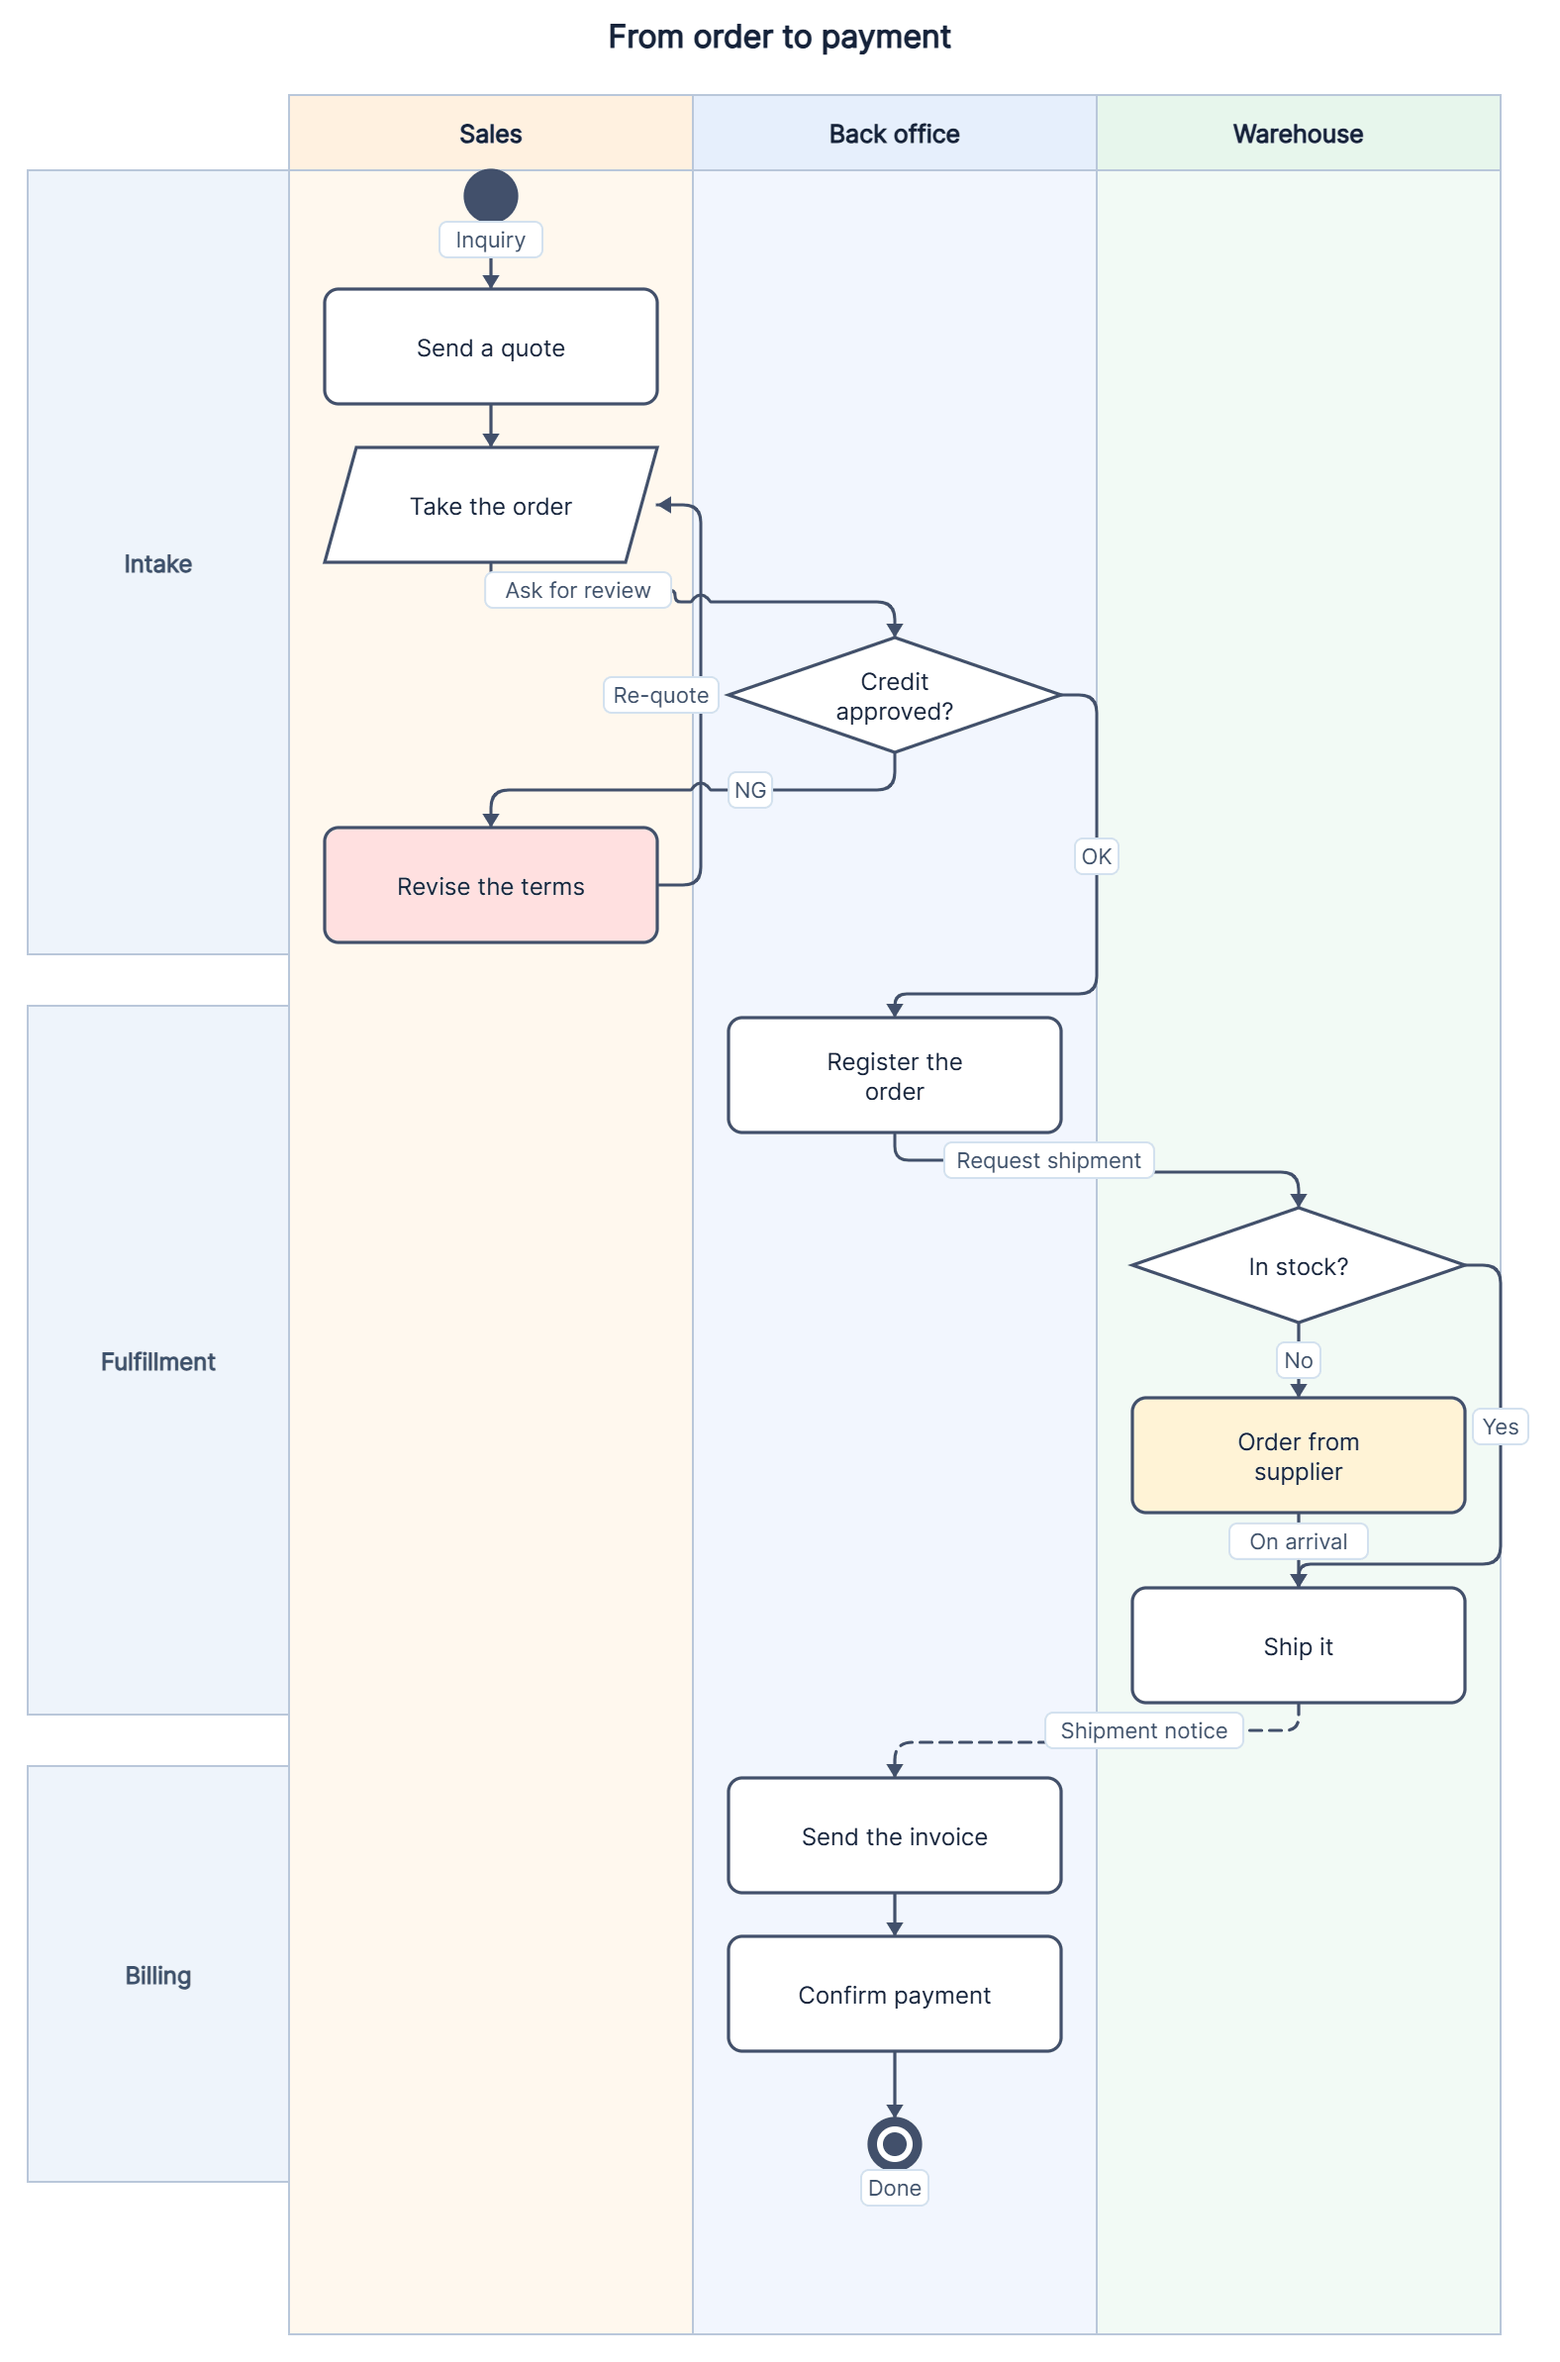
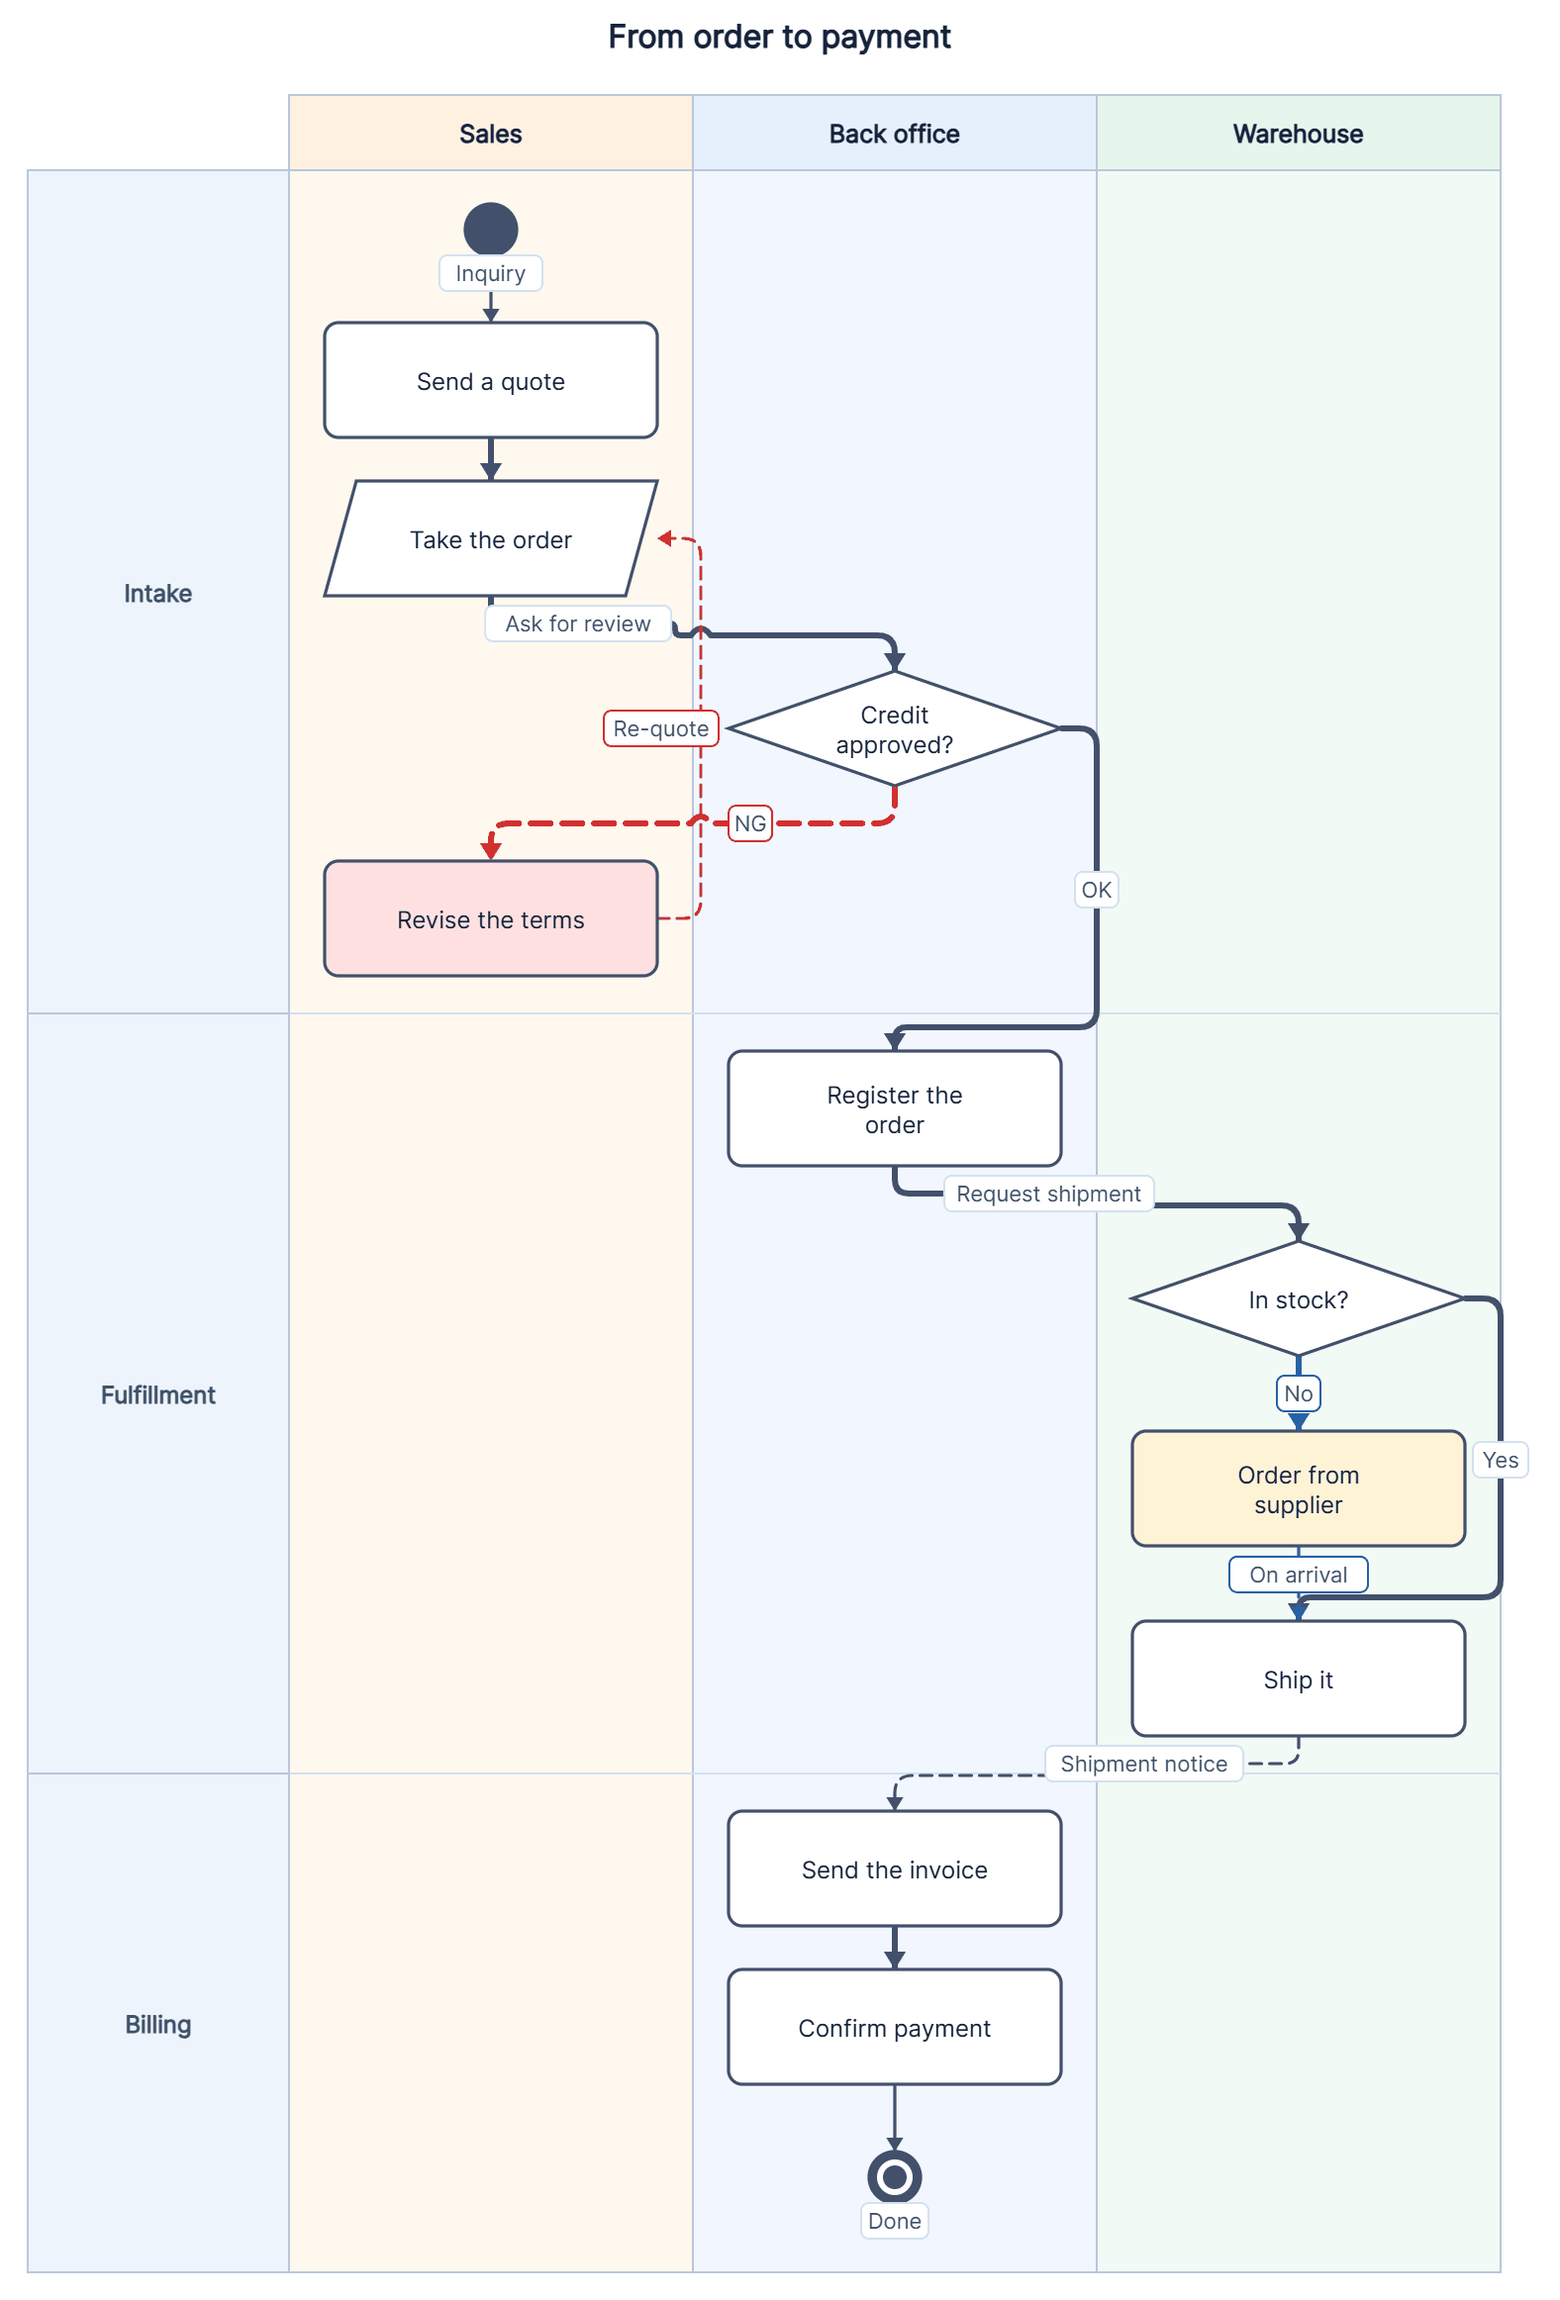
README の図と貼り付けコードを 1.4.0 の例に差し替える
配る例が線の4種と色を使うようになったので、README の PNG と、そこに貼ってある
.swim のコードを日英とも入れ替えた。図の中身が本文と食い違わないようにするため。

CHANGELOG の 1.0.6 相当（このリポジトリでは 1.0.3）の節を、同梱エンジン 1.4.0 の
内容に書き換えた。線の4種と色、空白なしの記法の直し、フェーズの帯の余白と境目を足し、
GUI 側の変更（線の色の欄、案内の CDN の版）も並べた。版そのものは上げていない。
1.0.3 はまだタグが無く、Marketplace に出していないため。

diff --git a/CHANGELOG.md b/CHANGELOG.md
@@ -2,8 +2,20 @@
 
 ## 1.0.3
 
-**描画エンジンを 1.3.0 に更新した。** 図の詰まり方が変わる。
+**描画エンジンを 1.4.0 に更新した。** 書ける線が増え、図の詰まり方が変わる。
 
+- **線の種類が4つになった。** `->` 実線 / `-->` 破線 / `=>` 太い実線 / `==>` 太い破線。
+  線が1本なら実線・2本なら破線・`=` なら太い、という規則で読める。Mermaid のフローチャート
+  では `-->` が実線・`==>` が太い実線だが、こちらはどちらも逆の意味になる。
+- **接続に色を付けられるようになった。** `n1 -> n2 "承認" color=#D32F2F` のように書く。
+  矢じりとラベルの枠も線の色に追従する（ラベルの文字色は読みやすさのため変えていない）。
+- **空白なしで書いた `n1-->n2` が読めていなかったのを直した。** from が `n1-` になり、
+  線種も破線ではなく実線になっていた。`A -> B -> C` と1行で3つ以上つなぐ書き方は、
+  黙って2つめまでで捨てるのをやめ、エラーとして出す。
+- **フェーズの帯に余白を入れ、レーンの上にも境目を引くようにした。** 帯の内側に余白が無く、
+  ノードが帯の上端にくっついていた。帯どうしは地続きに並べ、境目は薄い線1本でレーンの上まで
+  引く。最後のフェーズの下に終了●の分を二重に空けていたのもやめた（受注フローの例で、
+  図の高さが 1193px から 1162px になった）。
 - **段と段の隙間を「そこを何が通るか」で決めるようにした。** これまではフェーズの中で
   一律の間隔を使い、その値を「いちばん長いラベルの幅」から求めていたため、長いラベルが
   1つあるだけで、ラベルも折れ線も無い段まで間延びしていた。ラベル付きの接続がまたぐ
@@ -12,6 +24,14 @@
 - **接続ラベルがノードに重ならないようにした。** 逃がす処理が他の線と他のラベルしか
   見ておらず、図形の箱を見ていなかった。戻りの辺のようにノードのすぐ脇を通る線は、
   経路上のどこに置いても重なるので、必要なら経路から少しだけ横へ外す。
+
+**接続に線の色を選べるようにした。** ノードの塗り色と同じ作りで、線に使える濃い色を
+並べた一覧と「色なし」（エンジンの既定色で描く）を持つ。接続の一覧には記号ではなく、
+書き出される記法そのもの（`n1 ==> n4`）と、色を付けた線には細い色見本を出す。
+
+**「このツールについて」が案内する CDN の版が 1.3.0 のまま残っていたのを直した。**
+誰も見張っていなかったので黙ってずれていた。同梱しているエンジンの版とずれたら
+ビルドの検査で落ちるようにしてある。
 
 **ライブラリの入手方法の案内を直した。** `ℹ`「このツールについて」が、まだサイトから
 ダウンロードする案内のままだった。エンジンは npm と GitHub で公開済みなので、

diff --git a/README.md b/README.md
@@ -43,17 +43,17 @@ swimlane
     node e "完了" lane=back phase=p3 shape=enddot
 
     s -> n1
-    n1 -> n2
-    n2 -> d1 "審査を依頼"
-    d1 -> n4 "OK"
-    d1 -> n3 "NG"
-    n3 -> n2 "再見積"
-    n4 -> d2 "出荷を指示"
-    d2 -> n6 "あり"
-    d2 -> n5 "なし"
-    n5 -> n6 "入荷後"
+    n1 => n2
+    n2 => d1 "審査を依頼"
+    d1 => n4 "OK"
+    d1 ==> n3 "NG" color=#D32F2F
+    n3 --> n2 "再見積" color=#D32F2F
+    n4 => d2 "出荷を指示"
+    d2 => n6 "あり"
+    d2 ==> n5 "なし" color=#1565C0
+    n5 --> n6 "入荷後" color=#1565C0
     n6 --> n7 "出荷を通知"
-    n7 -> n8
+    n7 => n8
     n8 -> e
 ```
 

diff --git a/README.en.md b/README.en.md
@@ -44,17 +44,17 @@ swimlane
     node e "Done" lane=back phase=p3 shape=enddot
 
     s -> n1
-    n1 -> n2
-    n2 -> d1 "Ask for review"
-    d1 -> n4 "OK"
-    d1 -> n3 "NG"
-    n3 -> n2 "Re-quote"
-    n4 -> d2 "Request shipment"
-    d2 -> n6 "Yes"
-    d2 -> n5 "No"
-    n5 -> n6 "On arrival"
+    n1 => n2
+    n2 => d1 "Ask for review"
+    d1 => n4 "OK"
+    d1 ==> n3 "NG" color=#D32F2F
+    n3 --> n2 "Re-quote" color=#D32F2F
+    n4 => d2 "Request shipment"
+    d2 => n6 "Yes"
+    d2 ==> n5 "No" color=#1565C0
+    n5 --> n6 "On arrival" color=#1565C0
     n6 --> n7 "Shipment notice"
-    n7 -> n8
+    n7 => n8
     n8 -> e
 ```
 
